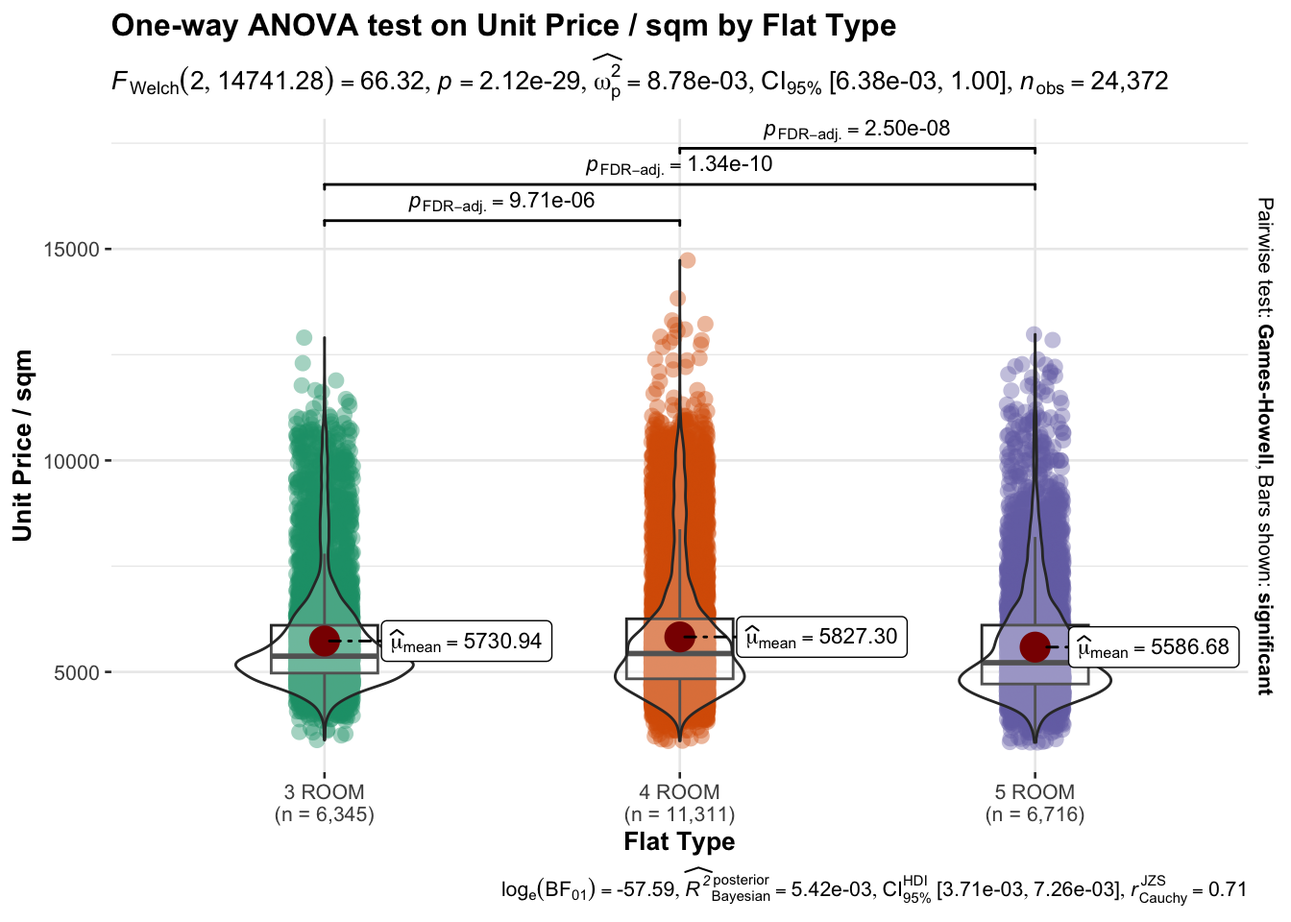
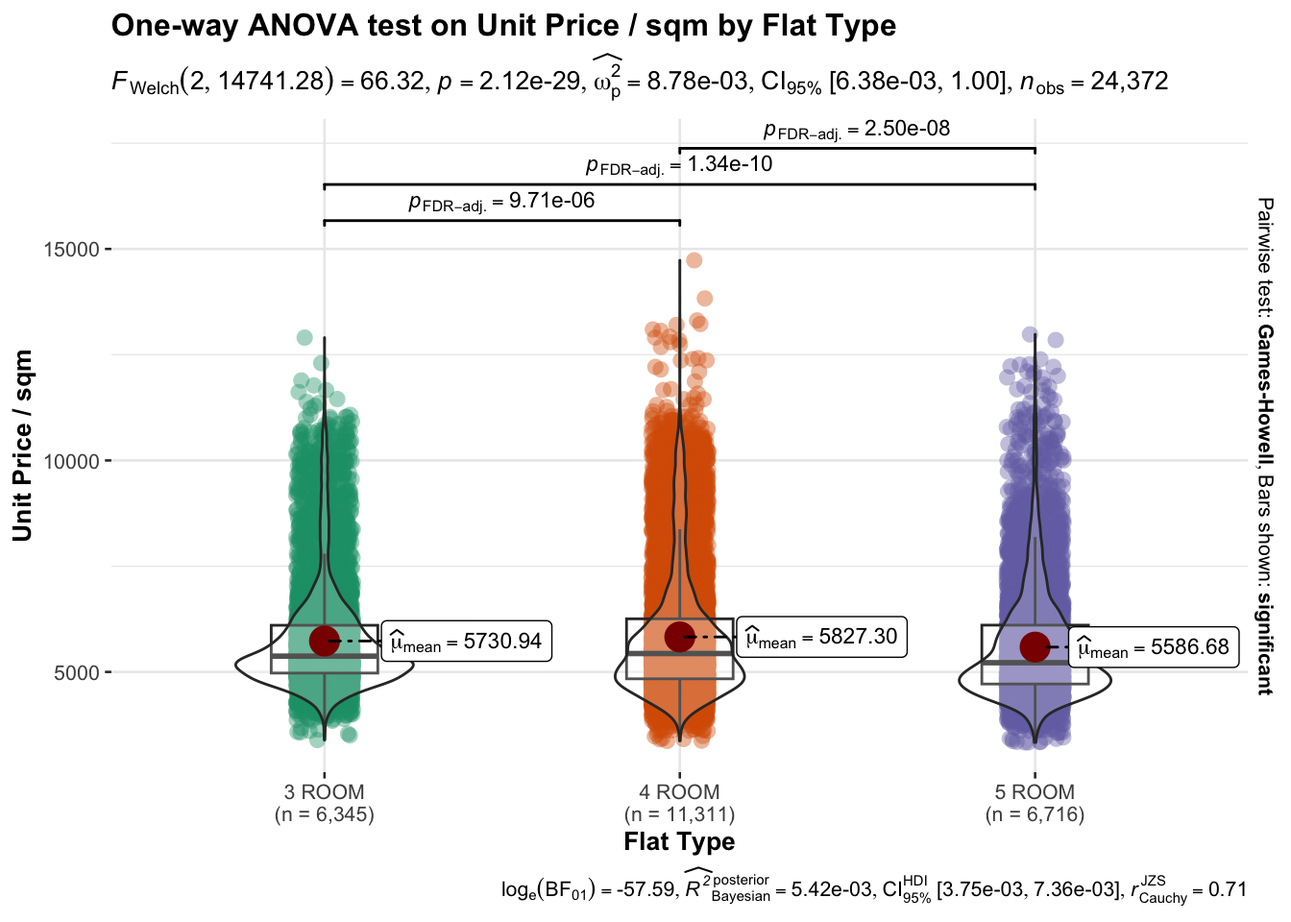
fix typos

diff --git a/_site/Take-home_Ex/Take-home_Ex03/Take-home_EX03.html b/_site/Take-home_Ex/Take-home_Ex03/Take-home_EX03.html
@@ -254,7 +254,7 @@ code span.wa { color: #60a0b0; font-weight: bold; font-style: italic; } /* Warni
   <li><a href="#average-unit-price-per-sqm-trend-by-flat-type" id="toc-average-unit-price-per-sqm-trend-by-flat-type" class="nav-link" data-scroll-target="#average-unit-price-per-sqm-trend-by-flat-type">2.2 Average Unit Price Per Sqm Trend by Flat Type</a></li>
   <li><a href="#visualizing-the-uncertainty-of-point-estimates-ggplot2-methods" id="toc-visualizing-the-uncertainty-of-point-estimates-ggplot2-methods" class="nav-link" data-scroll-target="#visualizing-the-uncertainty-of-point-estimates-ggplot2-methods"><strong>2.3 Visualizing the uncertainty of point estimates: ggplot2 methods</strong></a></li>
   <li><a href="#the-distribution-of-lease-commence-date-for-3-room-2022" id="toc-the-distribution-of-lease-commence-date-for-3-room-2022" class="nav-link" data-scroll-target="#the-distribution-of-lease-commence-date-for-3-room-2022">2.4 The Distribution of Lease Commence Date for 3-Room (2022)</a></li>
-  <li><a href="#one-way-anova-test-on-english-score-by-race" id="toc-one-way-anova-test-on-english-score-by-race" class="nav-link" data-scroll-target="#one-way-anova-test-on-english-score-by-race">2.5 One-way ANOVA test on English score by race</a></li>
+  <li><a href="#one-way-anova-test-on-unit-price-sqm-by-flat-type" id="toc-one-way-anova-test-on-unit-price-sqm-by-flat-type" class="nav-link" data-scroll-target="#one-way-anova-test-on-unit-price-sqm-by-flat-type">2.5 One-way ANOVA test on Unit Price / sqm by Flat Type</a></li>
   <li><a href="#resale-price-by-town-and-flat-type" id="toc-resale-price-by-town-and-flat-type" class="nav-link" data-scroll-target="#resale-price-by-town-and-flat-type">2.6 Resale Price by Town and Flat Type</a></li>
   </ul></li>
   <li><a href="#conclusions-and-takeaways" id="toc-conclusions-and-takeaways" class="nav-link" data-scroll-target="#conclusions-and-takeaways">3.0 <strong>Conclusions and Takeaways</strong></a></li>
@@ -316,8 +316,8 @@ code span.wa { color: #60a0b0; font-weight: bold; font-style: italic; } /* Warni
 <span id="cb2-3"><a href="#cb2-3" aria-hidden="true" tabindex="-1"></a>DT<span class="sc">::</span><span class="fu">datatable</span>(<span class="fu">head</span>(resale_data,<span class="dv">20</span>)) </span></code><button title="Copy to Clipboard" class="code-copy-button"><i class="bi"></i></button></pre></div>
 <div class="cell-output-display">
 
-<div class="datatables html-widget html-fill-item-overflow-hidden html-fill-item" id="htmlwidget-9f60006d9eb24817cd2e" style="width:100%;height:auto;"></div>
-<script type="application/json" data-for="htmlwidget-9f60006d9eb24817cd2e">{"x":{"filter":"none","vertical":false,"data":[["1","2","3","4","5","6","7","8","9","10","11","12","13","14","15","16","17","18","19","20"],["2017-01","2017-01","2017-01","2017-01","2017-01","2017-01","2017-01","2017-01","2017-01","2017-01","2017-01","2017-01","2017-01","2017-01","2017-01","2017-01","2017-01","2017-01","2017-01","2017-01"],["ANG MO KIO","ANG MO KIO","ANG MO KIO","ANG MO KIO","ANG MO KIO","ANG MO KIO","ANG MO KIO","ANG MO KIO","ANG MO KIO","ANG MO KIO","ANG MO KIO","ANG MO KIO","ANG MO KIO","ANG MO KIO","ANG MO KIO","ANG MO KIO","ANG MO KIO","ANG MO KIO","ANG MO KIO","ANG MO KIO"],["2 ROOM","3 ROOM","3 ROOM","3 ROOM","3 ROOM","3 ROOM","3 ROOM","3 ROOM","3 ROOM","3 ROOM","3 ROOM","3 ROOM","3 ROOM","3 ROOM","3 ROOM","3 ROOM","3 ROOM","3 ROOM","3 ROOM","3 ROOM"],["406","108","602","465","601","150","447","218","447","571","534","233","235","219","536","230","570","624","441","625"],["ANG MO KIO AVE 10","ANG MO KIO AVE 4","ANG MO KIO AVE 5","ANG MO KIO AVE 10","ANG MO KIO AVE 5","ANG MO KIO AVE 5","ANG MO KIO AVE 10","ANG MO KIO AVE 1","ANG MO KIO AVE 10","ANG MO KIO AVE 3","ANG MO KIO AVE 10","ANG MO KIO AVE 3","ANG MO KIO AVE 3","ANG MO KIO AVE 1","ANG MO KIO AVE 10","ANG MO KIO AVE 3","ANG MO KIO AVE 3","ANG MO KIO AVE 4","ANG MO KIO AVE 10","ANG MO KIO AVE 9"],["10 TO 12","01 TO 03","01 TO 03","04 TO 06","01 TO 03","01 TO 03","04 TO 06","04 TO 06","04 TO 06","01 TO 03","01 TO 03","10 TO 12","04 TO 06","07 TO 09","07 TO 09","04 TO 06","10 TO 12","04 TO 06","07 TO 09","04 TO 06"],[44,67,67,68,67,68,68,67,68,67,68,67,67,67,68,67,67,68,67,68],["Improved","New Generation","New Generation","New Generation","New Generation","New Generation","New Generation","New Generation","New Generation","New Generation","New Generation","New Generation","New Generation","New Generation","New Generation","New Generation","New Generation","New Generation","New Generation","New Generation"],[1979,1978,1980,1980,1980,1981,1979,1976,1979,1979,1980,1977,1977,1977,1980,1978,1979,1980,1979,1980],["61 years 04 months","60 years 07 months","62 years 05 months","62 years 01 month","62 years 05 months","63 years","61 years 06 months","58 years 04 months","61 years 06 months","61 years 04 months","62 years 01 month","59 years 08 months","59 years 08 months","59 years 06 months","62 years 01 month","60 years","61 years 04 months","62 years 08 months","61 years","62 years 08 months"],[232000,250000,262000,265000,265000,275000,280000,285000,285000,285000,288500,295000,295000,297000,298000,298000,300000,301000,306000,312000]],"container":"<table class=\"display\">\n  <thead>\n    <tr>\n      <th> <\/th>\n      <th>month<\/th>\n      <th>town<\/th>\n      <th>flat_type<\/th>\n      <th>block<\/th>\n      <th>street_name<\/th>\n      <th>storey_range<\/th>\n      <th>floor_area_sqm<\/th>\n      <th>flat_model<\/th>\n      <th>lease_commence_date<\/th>\n      <th>remaining_lease<\/th>\n      <th>resale_price<\/th>\n    <\/tr>\n  <\/thead>\n<\/table>","options":{"columnDefs":[{"className":"dt-right","targets":[7,9,11]},{"orderable":false,"targets":0}],"order":[],"autoWidth":false,"orderClasses":false}},"evals":[],"jsHooks":[]}</script>
+<div class="datatables html-widget html-fill-item-overflow-hidden html-fill-item" id="htmlwidget-d65cfe717b19edee4b93" style="width:100%;height:auto;"></div>
+<script type="application/json" data-for="htmlwidget-d65cfe717b19edee4b93">{"x":{"filter":"none","vertical":false,"data":[["1","2","3","4","5","6","7","8","9","10","11","12","13","14","15","16","17","18","19","20"],["2017-01","2017-01","2017-01","2017-01","2017-01","2017-01","2017-01","2017-01","2017-01","2017-01","2017-01","2017-01","2017-01","2017-01","2017-01","2017-01","2017-01","2017-01","2017-01","2017-01"],["ANG MO KIO","ANG MO KIO","ANG MO KIO","ANG MO KIO","ANG MO KIO","ANG MO KIO","ANG MO KIO","ANG MO KIO","ANG MO KIO","ANG MO KIO","ANG MO KIO","ANG MO KIO","ANG MO KIO","ANG MO KIO","ANG MO KIO","ANG MO KIO","ANG MO KIO","ANG MO KIO","ANG MO KIO","ANG MO KIO"],["2 ROOM","3 ROOM","3 ROOM","3 ROOM","3 ROOM","3 ROOM","3 ROOM","3 ROOM","3 ROOM","3 ROOM","3 ROOM","3 ROOM","3 ROOM","3 ROOM","3 ROOM","3 ROOM","3 ROOM","3 ROOM","3 ROOM","3 ROOM"],["406","108","602","465","601","150","447","218","447","571","534","233","235","219","536","230","570","624","441","625"],["ANG MO KIO AVE 10","ANG MO KIO AVE 4","ANG MO KIO AVE 5","ANG MO KIO AVE 10","ANG MO KIO AVE 5","ANG MO KIO AVE 5","ANG MO KIO AVE 10","ANG MO KIO AVE 1","ANG MO KIO AVE 10","ANG MO KIO AVE 3","ANG MO KIO AVE 10","ANG MO KIO AVE 3","ANG MO KIO AVE 3","ANG MO KIO AVE 1","ANG MO KIO AVE 10","ANG MO KIO AVE 3","ANG MO KIO AVE 3","ANG MO KIO AVE 4","ANG MO KIO AVE 10","ANG MO KIO AVE 9"],["10 TO 12","01 TO 03","01 TO 03","04 TO 06","01 TO 03","01 TO 03","04 TO 06","04 TO 06","04 TO 06","01 TO 03","01 TO 03","10 TO 12","04 TO 06","07 TO 09","07 TO 09","04 TO 06","10 TO 12","04 TO 06","07 TO 09","04 TO 06"],[44,67,67,68,67,68,68,67,68,67,68,67,67,67,68,67,67,68,67,68],["Improved","New Generation","New Generation","New Generation","New Generation","New Generation","New Generation","New Generation","New Generation","New Generation","New Generation","New Generation","New Generation","New Generation","New Generation","New Generation","New Generation","New Generation","New Generation","New Generation"],[1979,1978,1980,1980,1980,1981,1979,1976,1979,1979,1980,1977,1977,1977,1980,1978,1979,1980,1979,1980],["61 years 04 months","60 years 07 months","62 years 05 months","62 years 01 month","62 years 05 months","63 years","61 years 06 months","58 years 04 months","61 years 06 months","61 years 04 months","62 years 01 month","59 years 08 months","59 years 08 months","59 years 06 months","62 years 01 month","60 years","61 years 04 months","62 years 08 months","61 years","62 years 08 months"],[232000,250000,262000,265000,265000,275000,280000,285000,285000,285000,288500,295000,295000,297000,298000,298000,300000,301000,306000,312000]],"container":"<table class=\"display\">\n  <thead>\n    <tr>\n      <th> <\/th>\n      <th>month<\/th>\n      <th>town<\/th>\n      <th>flat_type<\/th>\n      <th>block<\/th>\n      <th>street_name<\/th>\n      <th>storey_range<\/th>\n      <th>floor_area_sqm<\/th>\n      <th>flat_model<\/th>\n      <th>lease_commence_date<\/th>\n      <th>remaining_lease<\/th>\n      <th>resale_price<\/th>\n    <\/tr>\n  <\/thead>\n<\/table>","options":{"columnDefs":[{"className":"dt-right","targets":[7,9,11]},{"orderable":false,"targets":0}],"order":[],"autoWidth":false,"orderClasses":false}},"evals":[],"jsHooks":[]}</script>
 </div>
 </div>
 <p>he <strong><code>month</code></strong> column is in the format “YYYY-MM”, we can convert it to a date format using:</p>
@@ -337,8 +337,8 @@ code span.wa { color: #60a0b0; font-weight: bold; font-style: italic; } /* Warni
 <div class="sourceCode cell-code" id="cb5"><pre class="sourceCode r code-with-copy"><code class="sourceCode r"><span id="cb5-1"><a href="#cb5-1" aria-hidden="true" tabindex="-1"></a>DT<span class="sc">::</span><span class="fu">datatable</span>(<span class="fu">head</span>(resale_345room_2022))</span></code><button title="Copy to Clipboard" class="code-copy-button"><i class="bi"></i></button></pre></div>
 <div class="cell-output-display">
 
-<div class="datatables html-widget html-fill-item-overflow-hidden html-fill-item" id="htmlwidget-df86899bfa57ce8aa597" style="width:100%;height:auto;"></div>
-<script type="application/json" data-for="htmlwidget-df86899bfa57ce8aa597">{"x":{"filter":"none","vertical":false,"data":[["1","2","3","4","5","6"],["2022-01-01","2022-01-01","2022-01-01","2022-01-01","2022-01-01","2022-01-01"],["ANG MO KIO","ANG MO KIO","ANG MO KIO","ANG MO KIO","ANG MO KIO","ANG MO KIO"],["3 ROOM","3 ROOM","3 ROOM","3 ROOM","3 ROOM","3 ROOM"],["320","225","331","534","578","452"],["ANG MO KIO AVE 1","ANG MO KIO AVE 1","ANG MO KIO AVE 1","ANG MO KIO AVE 10","ANG MO KIO AVE 10","ANG MO KIO AVE 10"],["07 TO 09","07 TO 09","07 TO 09","07 TO 09","04 TO 06","01 TO 03"],[73,67,68,82,67,83],["New Generation","New Generation","New Generation","New Generation","New Generation","New Generation"],[1977,1978,1981,1980,1980,1979],["54 years 05 months","55 years 01 month","58 years","57 years 02 months","57 years 01 month","56 years 07 months"],[358000,355000,338000,420000,328000,360000],[4904.1095890411,5298.50746268657,4970.58823529412,5121.9512195122,4895.5223880597,4337.34939759036]],"container":"<table class=\"display\">\n  <thead>\n    <tr>\n      <th> <\/th>\n      <th>month<\/th>\n      <th>town<\/th>\n      <th>flat_type<\/th>\n      <th>block<\/th>\n      <th>street_name<\/th>\n      <th>storey_range<\/th>\n      <th>floor_area_sqm<\/th>\n      <th>flat_model<\/th>\n      <th>lease_commence_date<\/th>\n      <th>remaining_lease<\/th>\n      <th>resale_price<\/th>\n      <th>unit_price_sqm<\/th>\n    <\/tr>\n  <\/thead>\n<\/table>","options":{"columnDefs":[{"className":"dt-right","targets":[7,9,11,12]},{"orderable":false,"targets":0}],"order":[],"autoWidth":false,"orderClasses":false}},"evals":[],"jsHooks":[]}</script>
+<div class="datatables html-widget html-fill-item-overflow-hidden html-fill-item" id="htmlwidget-36e0694cdda6b6613265" style="width:100%;height:auto;"></div>
+<script type="application/json" data-for="htmlwidget-36e0694cdda6b6613265">{"x":{"filter":"none","vertical":false,"data":[["1","2","3","4","5","6"],["2022-01-01","2022-01-01","2022-01-01","2022-01-01","2022-01-01","2022-01-01"],["ANG MO KIO","ANG MO KIO","ANG MO KIO","ANG MO KIO","ANG MO KIO","ANG MO KIO"],["3 ROOM","3 ROOM","3 ROOM","3 ROOM","3 ROOM","3 ROOM"],["320","225","331","534","578","452"],["ANG MO KIO AVE 1","ANG MO KIO AVE 1","ANG MO KIO AVE 1","ANG MO KIO AVE 10","ANG MO KIO AVE 10","ANG MO KIO AVE 10"],["07 TO 09","07 TO 09","07 TO 09","07 TO 09","04 TO 06","01 TO 03"],[73,67,68,82,67,83],["New Generation","New Generation","New Generation","New Generation","New Generation","New Generation"],[1977,1978,1981,1980,1980,1979],["54 years 05 months","55 years 01 month","58 years","57 years 02 months","57 years 01 month","56 years 07 months"],[358000,355000,338000,420000,328000,360000],[4904.1095890411,5298.50746268657,4970.58823529412,5121.9512195122,4895.5223880597,4337.34939759036]],"container":"<table class=\"display\">\n  <thead>\n    <tr>\n      <th> <\/th>\n      <th>month<\/th>\n      <th>town<\/th>\n      <th>flat_type<\/th>\n      <th>block<\/th>\n      <th>street_name<\/th>\n      <th>storey_range<\/th>\n      <th>floor_area_sqm<\/th>\n      <th>flat_model<\/th>\n      <th>lease_commence_date<\/th>\n      <th>remaining_lease<\/th>\n      <th>resale_price<\/th>\n      <th>unit_price_sqm<\/th>\n    <\/tr>\n  <\/thead>\n<\/table>","options":{"columnDefs":[{"className":"dt-right","targets":[7,9,11,12]},{"orderable":false,"targets":0}],"order":[],"autoWidth":false,"orderClasses":false}},"evals":[],"jsHooks":[]}</script>
 </div>
 </div>
 </section>
@@ -383,8 +383,8 @@ code span.wa { color: #60a0b0; font-weight: bold; font-style: italic; } /* Warni
 <span id="cb7-13"><a href="#cb7-13" aria-hidden="true" tabindex="-1"></a></span>
 <span id="cb7-14"><a href="#cb7-14" aria-hidden="true" tabindex="-1"></a><span class="fu">ggplotly</span>(p, <span class="at">tooltip =</span> <span class="fu">c</span>(<span class="st">"month"</span>, <span class="st">"avg_resale_price"</span>))</span></code><button title="Copy to Clipboard" class="code-copy-button"><i class="bi"></i></button></pre></div>
 <div class="cell-output-display">
-<div class="plotly html-widget html-fill-item-overflow-hidden html-fill-item" id="htmlwidget-639fb18eedd04da07a56" style="width:100%;height:464px;"></div>
-<script type="application/json" data-for="htmlwidget-639fb18eedd04da07a56">{"x":{"data":[{"x":[18993,19024,19052,19083,19113,19144,19174,19205,19236,19266,19297,19327],"y":[5473.87561477056,5488.17289207192,5637.15060548654,5562.58763469667,5676.76940009474,5756.49872945324,5741.40466229926,5748.66008520505,5889.27296326764,5899.2545778642,5856.68290799541,5852.32877927145],"text":["month: 2022-01-01<br />avg_resale_price: 5473.876","month: 2022-02-01<br />avg_resale_price: 5488.173","month: 2022-03-01<br />avg_resale_price: 5637.151","month: 2022-04-01<br />avg_resale_price: 5562.588","month: 2022-05-01<br />avg_resale_price: 5676.769","month: 2022-06-01<br />avg_resale_price: 5756.499","month: 2022-07-01<br />avg_resale_price: 5741.405","month: 2022-08-01<br />avg_resale_price: 5748.660","month: 2022-09-01<br />avg_resale_price: 5889.273","month: 2022-10-01<br />avg_resale_price: 5899.255","month: 2022-11-01<br />avg_resale_price: 5856.683","month: 2022-12-01<br />avg_resale_price: 5852.329"],"type":"scatter","mode":"lines","line":{"width":1.88976377952756,"color":"rgba(248,118,109,1)","dash":"solid"},"hoveron":"points","name":"3 ROOM","legendgroup":"3 ROOM","showlegend":true,"xaxis":"x","yaxis":"y","hoverinfo":"text","frame":null},{"x":[18993,19024,19052,19083,19113,19144,19174,19205,19236,19266,19297,19327],"y":[5522.62835710317,5588.22686555539,5663.04561786337,5733.22353266283,5819.61480196588,5846.90495189754,5832.77447541297,5767.9455604816,5929.28194390436,6009.29523650514,5901.09305536057,5923.39304999682],"text":["month: 2022-01-01<br />avg_resale_price: 5522.628","month: 2022-02-01<br />avg_resale_price: 5588.227","month: 2022-03-01<br />avg_resale_price: 5663.046","month: 2022-04-01<br />avg_resale_price: 5733.224","month: 2022-05-01<br />avg_resale_price: 5819.615","month: 2022-06-01<br />avg_resale_price: 5846.905","month: 2022-07-01<br />avg_resale_price: 5832.774","month: 2022-08-01<br />avg_resale_price: 5767.946","month: 2022-09-01<br />avg_resale_price: 5929.282","month: 2022-10-01<br />avg_resale_price: 6009.295","month: 2022-11-01<br />avg_resale_price: 5901.093","month: 2022-12-01<br />avg_resale_price: 5923.393"],"type":"scatter","mode":"lines","line":{"width":1.88976377952756,"color":"rgba(0,186,56,1)","dash":"solid"},"hoveron":"points","name":"4 ROOM","legendgroup":"4 ROOM","showlegend":true,"xaxis":"x","yaxis":"y","hoverinfo":"text","frame":null},{"x":[18993,19024,19052,19083,19113,19144,19174,19205,19236,19266,19297,19327],"y":[5336.84481799558,5449.90794036681,5424.01016424472,5449.44066756299,5551.01287008399,5588.44846303617,5648.46151956179,5597.63462018532,5709.21402369504,5757.30926176285,5693.57865312612,5616.5867998961],"text":["month: 2022-01-01<br />avg_resale_price: 5336.845","month: 2022-02-01<br />avg_resale_price: 5449.908","month: 2022-03-01<br />avg_resale_price: 5424.010","month: 2022-04-01<br />avg_resale_price: 5449.441","month: 2022-05-01<br />avg_resale_price: 5551.013","month: 2022-06-01<br />avg_resale_price: 5588.448","month: 2022-07-01<br />avg_resale_price: 5648.462","month: 2022-08-01<br />avg_resale_price: 5597.635","month: 2022-09-01<br />avg_resale_price: 5709.214","month: 2022-10-01<br />avg_resale_price: 5757.309","month: 2022-11-01<br />avg_resale_price: 5693.579","month: 2022-12-01<br />avg_resale_price: 5616.587"],"type":"scatter","mode":"lines","line":{"width":1.88976377952756,"color":"rgba(97,156,255,1)","dash":"solid"},"hoveron":"points","name":"5 ROOM","legendgroup":"5 ROOM","showlegend":true,"xaxis":"x","yaxis":"y","hoverinfo":"text","frame":null}],"layout":{"margin":{"t":43.7625570776256,"r":7.30593607305936,"b":40.1826484018265,"l":48.9497716894977},"plot_bgcolor":"rgba(255,255,255,1)","paper_bgcolor":"rgba(255,255,255,1)","font":{"color":"rgba(0,0,0,1)","family":"","size":14.6118721461187},"title":{"text":"Average Unit Resale Price Trend by Flat Type (2022)","font":{"color":"rgba(0,0,0,1)","family":"","size":17.5342465753425},"x":0,"xref":"paper"},"xaxis":{"domain":[0,1],"automargin":true,"type":"linear","autorange":false,"range":[18976.3,19343.7],"tickmode":"array","ticktext":["Jan","Feb","Mar","Apr","May","Jun","Jul","Aug","Sep","Oct","Nov","Dec"],"tickvals":[18993,19024,19052,19083,19113,19144,19174,19205,19236,19266,19297,19327],"categoryorder":"array","categoryarray":["Jan","Feb","Mar","Apr","May","Jun","Jul","Aug","Sep","Oct","Nov","Dec"],"nticks":null,"ticks":"outside","tickcolor":"rgba(51,51,51,1)","ticklen":3.65296803652968,"tickwidth":0.66417600664176,"showticklabels":true,"tickfont":{"color":"rgba(77,77,77,1)","family":"","size":11.689497716895},"tickangle":-0,"showline":false,"linecolor":null,"linewidth":0,"showgrid":true,"gridcolor":"rgba(235,235,235,1)","gridwidth":0.66417600664176,"zeroline":false,"anchor":"y","title":{"text":"Month","font":{"color":"rgba(0,0,0,1)","family":"","size":14.6118721461187}},"hoverformat":".2f"},"yaxis":{"domain":[0,1],"automargin":true,"type":"linear","autorange":false,"range":[5303.2222970701,6042.91775743062],"tickmode":"array","ticktext":["5.5k","5.7k","5.9k"],"tickvals":[5500,5700,5900],"categoryorder":"array","categoryarray":["5.5k","5.7k","5.9k"],"nticks":null,"ticks":"outside","tickcolor":"rgba(51,51,51,1)","ticklen":3.65296803652968,"tickwidth":0.66417600664176,"showticklabels":true,"tickfont":{"color":"rgba(77,77,77,1)","family":"","size":11.689497716895},"tickangle":-0,"showline":false,"linecolor":null,"linewidth":0,"showgrid":true,"gridcolor":"rgba(235,235,235,1)","gridwidth":0.66417600664176,"zeroline":false,"anchor":"x","title":{"text":"Unit Price","font":{"color":"rgba(0,0,0,1)","family":"","size":14.6118721461187}},"hoverformat":".2f"},"shapes":[{"type":"rect","fillcolor":"transparent","line":{"color":"rgba(51,51,51,1)","width":0.66417600664176,"linetype":"solid"},"yref":"paper","xref":"paper","x0":0,"x1":1,"y0":0,"y1":1}],"showlegend":true,"legend":{"bgcolor":"rgba(255,255,255,1)","bordercolor":"transparent","borderwidth":1.88976377952756,"font":{"color":"rgba(0,0,0,1)","family":"","size":11.689497716895},"title":{"text":"flat_type","font":{"color":"rgba(0,0,0,1)","family":"","size":14.6118721461187}}},"hovermode":"closest","barmode":"relative"},"config":{"doubleClick":"reset","modeBarButtonsToAdd":["hoverclosest","hovercompare"],"showSendToCloud":false},"source":"A","attrs":{"131b76a54e40e":{"x":{},"y":{},"colour":{},"type":"scatter"}},"cur_data":"131b76a54e40e","visdat":{"131b76a54e40e":["function (y) ","x"]},"highlight":{"on":"plotly_click","persistent":false,"dynamic":false,"selectize":false,"opacityDim":0.2,"selected":{"opacity":1},"debounce":0},"shinyEvents":["plotly_hover","plotly_click","plotly_selected","plotly_relayout","plotly_brushed","plotly_brushing","plotly_clickannotation","plotly_doubleclick","plotly_deselect","plotly_afterplot","plotly_sunburstclick"],"base_url":"https://plot.ly"},"evals":[],"jsHooks":[]}</script>
+<div class="plotly html-widget html-fill-item-overflow-hidden html-fill-item" id="htmlwidget-d731b49bc4124ebfcffc" style="width:100%;height:464px;"></div>
+<script type="application/json" data-for="htmlwidget-d731b49bc4124ebfcffc">{"x":{"data":[{"x":[18993,19024,19052,19083,19113,19144,19174,19205,19236,19266,19297,19327],"y":[5473.87561477056,5488.17289207192,5637.15060548654,5562.58763469667,5676.76940009474,5756.49872945324,5741.40466229926,5748.66008520505,5889.27296326764,5899.2545778642,5856.68290799541,5852.32877927145],"text":["month: 2022-01-01<br />avg_resale_price: 5473.876","month: 2022-02-01<br />avg_resale_price: 5488.173","month: 2022-03-01<br />avg_resale_price: 5637.151","month: 2022-04-01<br />avg_resale_price: 5562.588","month: 2022-05-01<br />avg_resale_price: 5676.769","month: 2022-06-01<br />avg_resale_price: 5756.499","month: 2022-07-01<br />avg_resale_price: 5741.405","month: 2022-08-01<br />avg_resale_price: 5748.660","month: 2022-09-01<br />avg_resale_price: 5889.273","month: 2022-10-01<br />avg_resale_price: 5899.255","month: 2022-11-01<br />avg_resale_price: 5856.683","month: 2022-12-01<br />avg_resale_price: 5852.329"],"type":"scatter","mode":"lines","line":{"width":1.88976377952756,"color":"rgba(248,118,109,1)","dash":"solid"},"hoveron":"points","name":"3 ROOM","legendgroup":"3 ROOM","showlegend":true,"xaxis":"x","yaxis":"y","hoverinfo":"text","frame":null},{"x":[18993,19024,19052,19083,19113,19144,19174,19205,19236,19266,19297,19327],"y":[5522.62835710317,5588.22686555539,5663.04561786337,5733.22353266283,5819.61480196588,5846.90495189754,5832.77447541297,5767.9455604816,5929.28194390436,6009.29523650514,5901.09305536057,5923.39304999682],"text":["month: 2022-01-01<br />avg_resale_price: 5522.628","month: 2022-02-01<br />avg_resale_price: 5588.227","month: 2022-03-01<br />avg_resale_price: 5663.046","month: 2022-04-01<br />avg_resale_price: 5733.224","month: 2022-05-01<br />avg_resale_price: 5819.615","month: 2022-06-01<br />avg_resale_price: 5846.905","month: 2022-07-01<br />avg_resale_price: 5832.774","month: 2022-08-01<br />avg_resale_price: 5767.946","month: 2022-09-01<br />avg_resale_price: 5929.282","month: 2022-10-01<br />avg_resale_price: 6009.295","month: 2022-11-01<br />avg_resale_price: 5901.093","month: 2022-12-01<br />avg_resale_price: 5923.393"],"type":"scatter","mode":"lines","line":{"width":1.88976377952756,"color":"rgba(0,186,56,1)","dash":"solid"},"hoveron":"points","name":"4 ROOM","legendgroup":"4 ROOM","showlegend":true,"xaxis":"x","yaxis":"y","hoverinfo":"text","frame":null},{"x":[18993,19024,19052,19083,19113,19144,19174,19205,19236,19266,19297,19327],"y":[5336.84481799558,5449.90794036681,5424.01016424472,5449.44066756299,5551.01287008399,5588.44846303617,5648.46151956179,5597.63462018532,5709.21402369504,5757.30926176285,5693.57865312612,5616.5867998961],"text":["month: 2022-01-01<br />avg_resale_price: 5336.845","month: 2022-02-01<br />avg_resale_price: 5449.908","month: 2022-03-01<br />avg_resale_price: 5424.010","month: 2022-04-01<br />avg_resale_price: 5449.441","month: 2022-05-01<br />avg_resale_price: 5551.013","month: 2022-06-01<br />avg_resale_price: 5588.448","month: 2022-07-01<br />avg_resale_price: 5648.462","month: 2022-08-01<br />avg_resale_price: 5597.635","month: 2022-09-01<br />avg_resale_price: 5709.214","month: 2022-10-01<br />avg_resale_price: 5757.309","month: 2022-11-01<br />avg_resale_price: 5693.579","month: 2022-12-01<br />avg_resale_price: 5616.587"],"type":"scatter","mode":"lines","line":{"width":1.88976377952756,"color":"rgba(97,156,255,1)","dash":"solid"},"hoveron":"points","name":"5 ROOM","legendgroup":"5 ROOM","showlegend":true,"xaxis":"x","yaxis":"y","hoverinfo":"text","frame":null}],"layout":{"margin":{"t":43.7625570776256,"r":7.30593607305936,"b":40.1826484018265,"l":48.9497716894977},"plot_bgcolor":"rgba(255,255,255,1)","paper_bgcolor":"rgba(255,255,255,1)","font":{"color":"rgba(0,0,0,1)","family":"","size":14.6118721461187},"title":{"text":"Average Unit Resale Price Trend by Flat Type (2022)","font":{"color":"rgba(0,0,0,1)","family":"","size":17.5342465753425},"x":0,"xref":"paper"},"xaxis":{"domain":[0,1],"automargin":true,"type":"linear","autorange":false,"range":[18976.3,19343.7],"tickmode":"array","ticktext":["Jan","Feb","Mar","Apr","May","Jun","Jul","Aug","Sep","Oct","Nov","Dec"],"tickvals":[18993,19024,19052,19083,19113,19144,19174,19205,19236,19266,19297,19327],"categoryorder":"array","categoryarray":["Jan","Feb","Mar","Apr","May","Jun","Jul","Aug","Sep","Oct","Nov","Dec"],"nticks":null,"ticks":"outside","tickcolor":"rgba(51,51,51,1)","ticklen":3.65296803652968,"tickwidth":0.66417600664176,"showticklabels":true,"tickfont":{"color":"rgba(77,77,77,1)","family":"","size":11.689497716895},"tickangle":-0,"showline":false,"linecolor":null,"linewidth":0,"showgrid":true,"gridcolor":"rgba(235,235,235,1)","gridwidth":0.66417600664176,"zeroline":false,"anchor":"y","title":{"text":"Month","font":{"color":"rgba(0,0,0,1)","family":"","size":14.6118721461187}},"hoverformat":".2f"},"yaxis":{"domain":[0,1],"automargin":true,"type":"linear","autorange":false,"range":[5303.2222970701,6042.91775743062],"tickmode":"array","ticktext":["5.5k","5.7k","5.9k"],"tickvals":[5500,5700,5900],"categoryorder":"array","categoryarray":["5.5k","5.7k","5.9k"],"nticks":null,"ticks":"outside","tickcolor":"rgba(51,51,51,1)","ticklen":3.65296803652968,"tickwidth":0.66417600664176,"showticklabels":true,"tickfont":{"color":"rgba(77,77,77,1)","family":"","size":11.689497716895},"tickangle":-0,"showline":false,"linecolor":null,"linewidth":0,"showgrid":true,"gridcolor":"rgba(235,235,235,1)","gridwidth":0.66417600664176,"zeroline":false,"anchor":"x","title":{"text":"Unit Price","font":{"color":"rgba(0,0,0,1)","family":"","size":14.6118721461187}},"hoverformat":".2f"},"shapes":[{"type":"rect","fillcolor":"transparent","line":{"color":"rgba(51,51,51,1)","width":0.66417600664176,"linetype":"solid"},"yref":"paper","xref":"paper","x0":0,"x1":1,"y0":0,"y1":1}],"showlegend":true,"legend":{"bgcolor":"rgba(255,255,255,1)","bordercolor":"transparent","borderwidth":1.88976377952756,"font":{"color":"rgba(0,0,0,1)","family":"","size":11.689497716895},"title":{"text":"flat_type","font":{"color":"rgba(0,0,0,1)","family":"","size":14.6118721461187}}},"hovermode":"closest","barmode":"relative"},"config":{"doubleClick":"reset","modeBarButtonsToAdd":["hoverclosest","hovercompare"],"showSendToCloud":false},"source":"A","attrs":{"13a59564cbfd6":{"x":{},"y":{},"colour":{},"type":"scatter"}},"cur_data":"13a59564cbfd6","visdat":{"13a59564cbfd6":["function (y) ","x"]},"highlight":{"on":"plotly_click","persistent":false,"dynamic":false,"selectize":false,"opacityDim":0.2,"selected":{"opacity":1},"debounce":0},"shinyEvents":["plotly_hover","plotly_click","plotly_selected","plotly_relayout","plotly_brushed","plotly_brushing","plotly_clickannotation","plotly_doubleclick","plotly_deselect","plotly_afterplot","plotly_sunburstclick"],"base_url":"https://plot.ly"},"evals":[],"jsHooks":[]}</script>
 </div>
 </div>
 <p>Analytic insights: The line chart of the unit price per square meter of public housing in Singapore shows that there is a clear upward trend for all three flat types (3-room, 4-room, and 5-room) from January to September 2022. The average unit price for 4-room flats is the highest among the three types, followed by 3-room and 5-room flats. Additionally, there is a significant increase in unit price from August to October for all three flat types. These insights suggest that the public housing market in Singapore is experiencing a general upward trend in unit price, with larger flats commanding a lower unit price.</p>
@@ -477,8 +477,8 @@ code span.wa { color: #60a0b0; font-weight: bold; font-style: italic; } /* Warni
 </div>
 <p><strong>Analytic insights</strong>: When analyzing the distribution of lease commencement dates for 3 room, 4 room, and 5 room HDB units, it was found that the majority of three-room second-hand HDB units had leases that commenced between 1970 and 1986, with the highest number of units having leases that commenced in 1984. The number of second-hand HDB units with leases commencing between 1986 and 2010 was very low. The lease commencement dates for second-hand 4 room and 5 room HDB units were relatively stable from 1970 to 2010 and began to increase in 2021, reaching a peak in 2018. However, due to the COVID-19 pandemic, this number dropped sharply, which also reflects the decline in HDB construction during the pandemic.</p>
 </section>
-<section id="one-way-anova-test-on-english-score-by-race" class="level3">
-<h3 class="anchored" data-anchor-id="one-way-anova-test-on-english-score-by-race">2.5 One-way ANOVA test on English score by race</h3>
+<section id="one-way-anova-test-on-unit-price-sqm-by-flat-type" class="level3">
+<h3 class="anchored" data-anchor-id="one-way-anova-test-on-unit-price-sqm-by-flat-type">2.5 One-way ANOVA test on Unit Price / sqm by Flat Type</h3>
 <div class="cell">
 <div class="sourceCode cell-code" id="cb13"><pre class="sourceCode r code-with-copy"><code class="sourceCode r"><span id="cb13-1"><a href="#cb13-1" aria-hidden="true" tabindex="-1"></a>p <span class="ot">&lt;-</span> <span class="fu">ggbetweenstats</span>(</span>
 <span id="cb13-2"><a href="#cb13-2" aria-hidden="true" tabindex="-1"></a>  <span class="at">data =</span> resale_345room_2022,</span>
